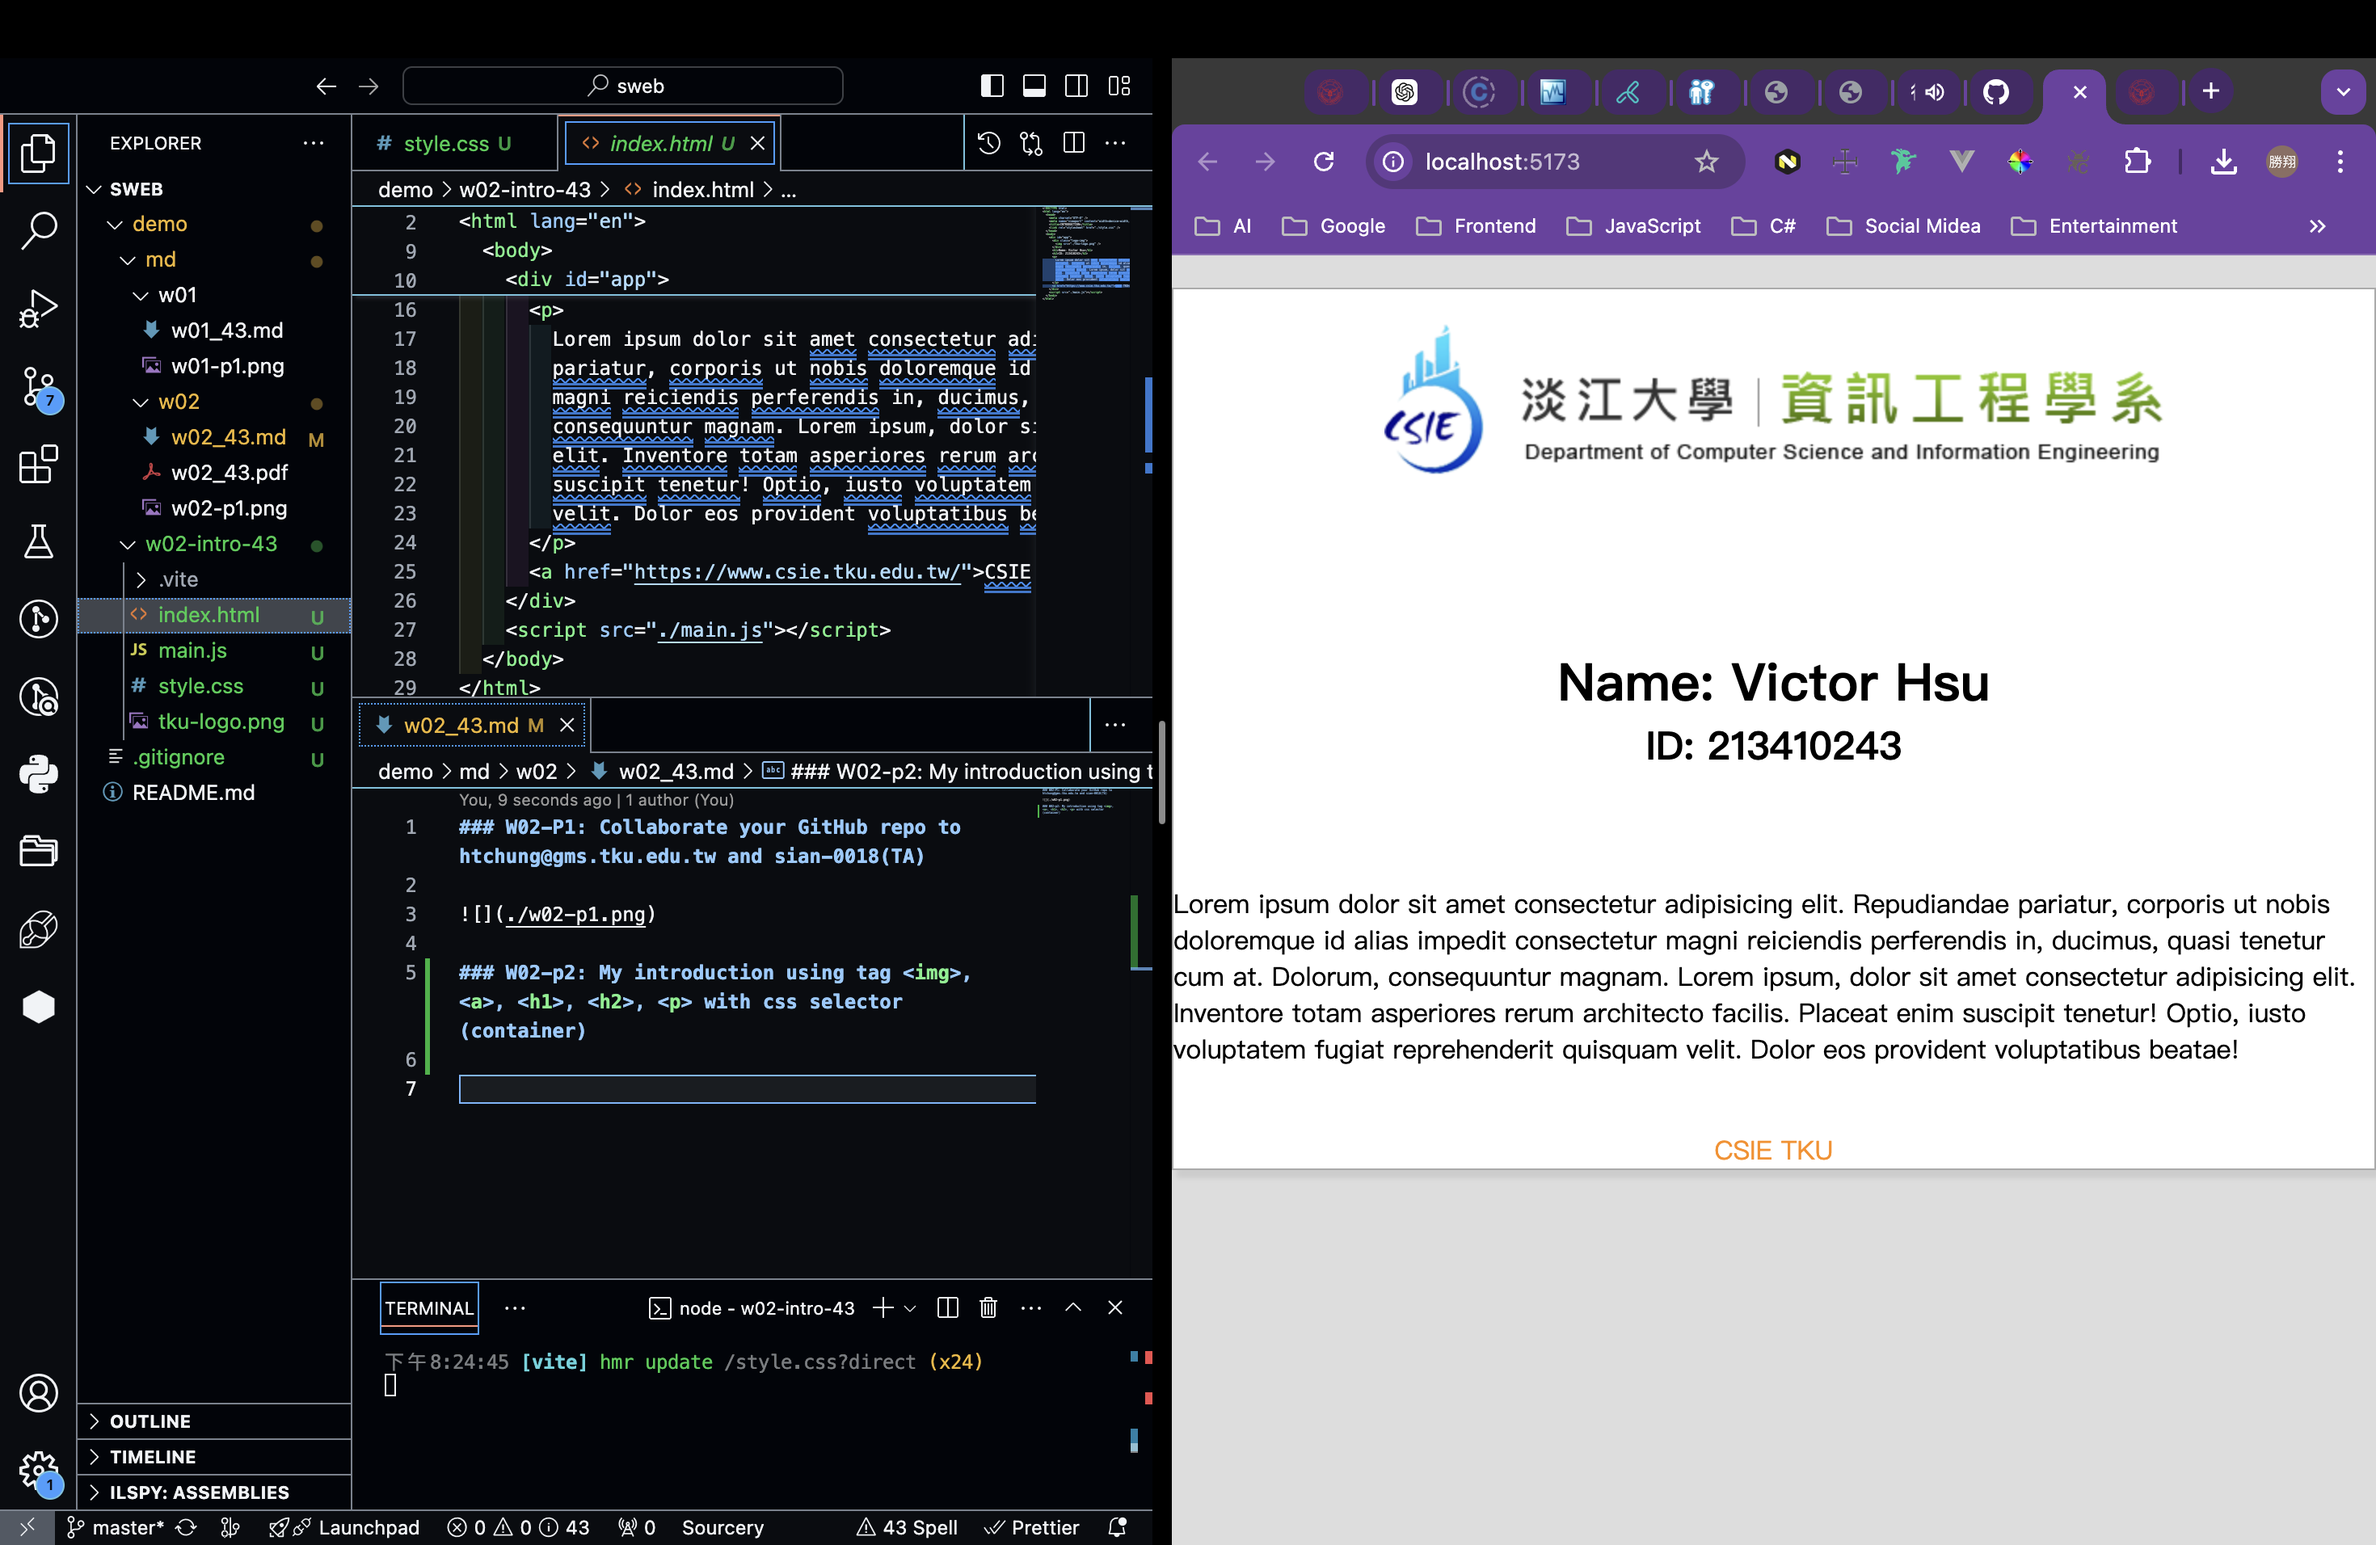
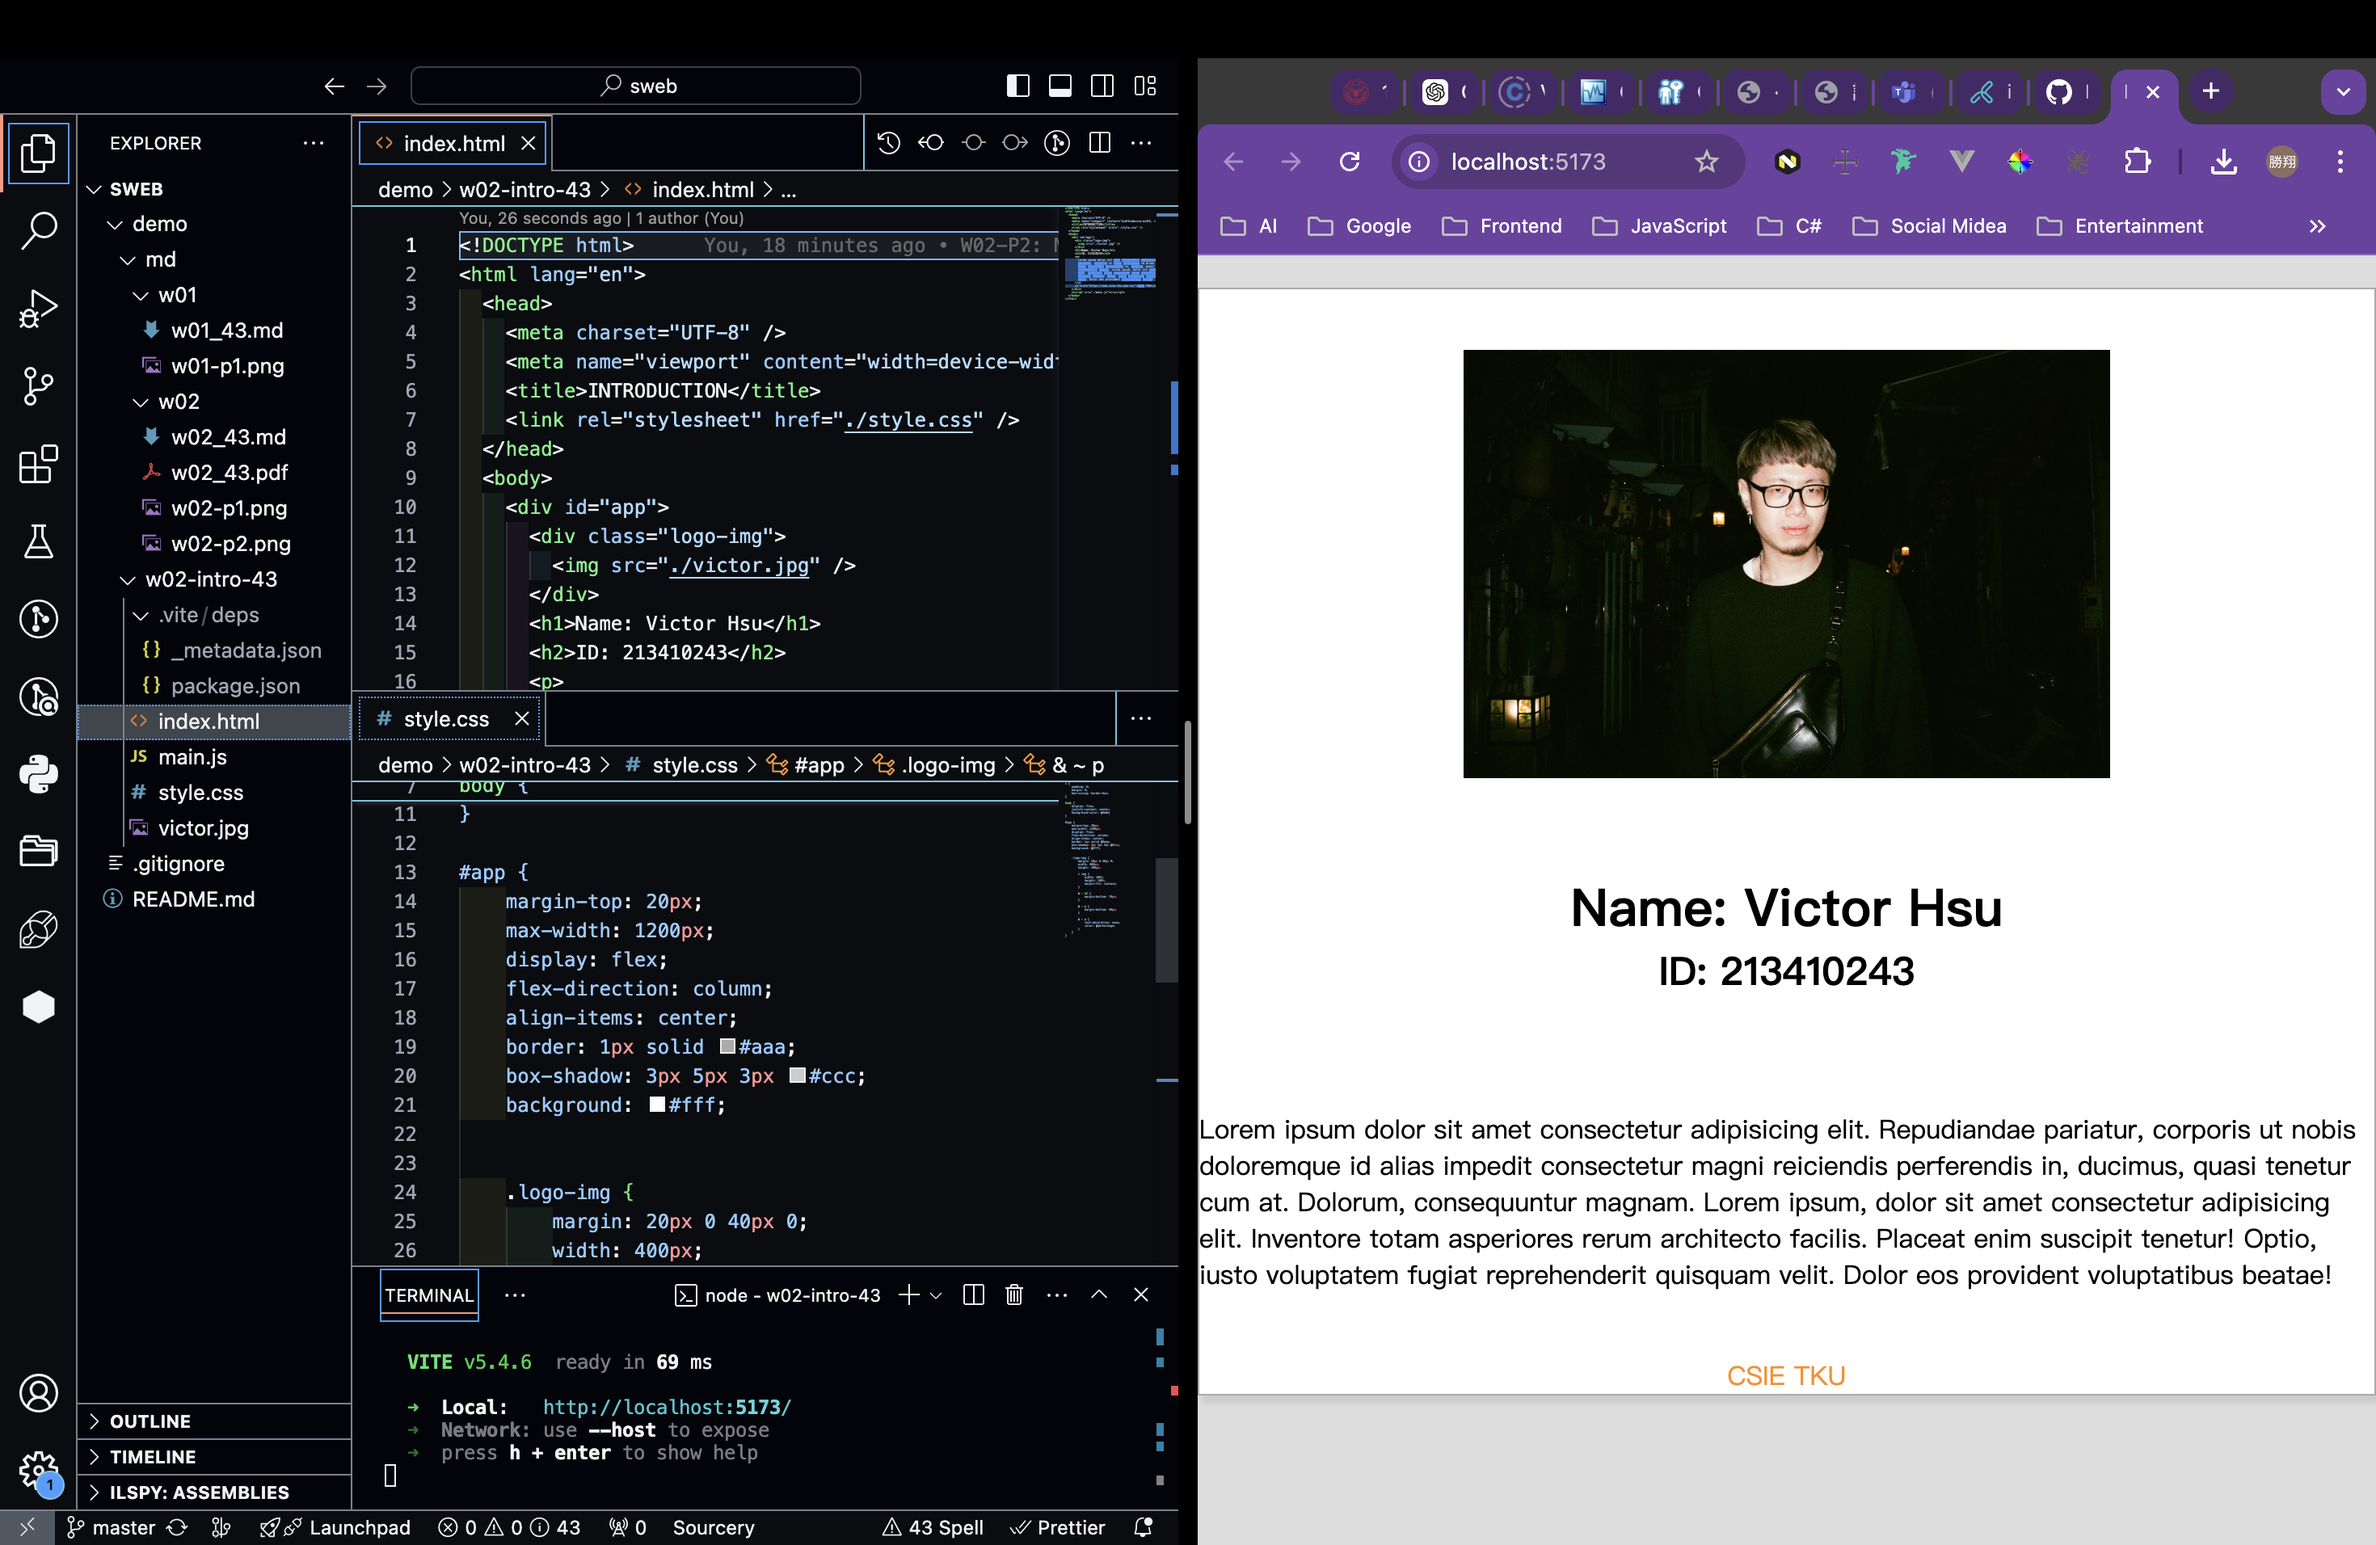
update: add git logs

diff --git a/demo/md/w02/w02_43.md b/demo/md/w02/w02_43.md
@@ -2,6 +2,10 @@
 
 ![](./w02-p1.png)
 
+```
+5d76c1d victor_xu       Thu Sep 19 19:59:32 2024 +0800  W02-P1: Collaborate your GitHub repo to htchung@gms.tku.edu.tw and sian-0018(TA)
+```
+
 ### W02-P2: My introduction using tag `<img>, <a>, <h1>, <h2>, <p>` with css selector (container)
 
 ![](./w02-p2.png)
@@ -9,6 +13,8 @@
 ### W02-P3: git logs for W02
 
 ```
+96bfc15 victor_xu       Thu Sep 19 20:49:23 2024 +0800  update: vic's photo
+b51ebfc victor_xu       Thu Sep 19 20:34:35 2024 +0800  W02-P3: git logs for W02
 3561aa2 victor_xu       Thu Sep 19 20:32:08 2024 +0800  W02-P2: My introduction using tag with css selector (container)
 5d76c1d victor_xu       Thu Sep 19 19:59:32 2024 +0800  W02-P1: Collaborate your GitHub repo to htchung@gms.tku.edu.tw and sian-0018(TA)
 ```

diff --git a/demo/md/w01/w01_43.md b/demo/md/w01/w01_43.md
@@ -2,6 +2,14 @@
 
 [My GitHub URL](https://github.com/vic0627/1131-sweb-demo-43)
 
+```
+fddd89c victor_xu       Thu Sep 12 20:43:13 2024 +0800  W01-P1: GitHub URL
+```
+
 ### W01-P2: GitHub show demo/md/w01 files
 
 ![](w01-p1.png)
+
+```
+8fc8212 victor_xu       Thu Sep 12 20:48:46 2024 +0800  W01-P2: GitHub show demo/md/w01 files
+```
